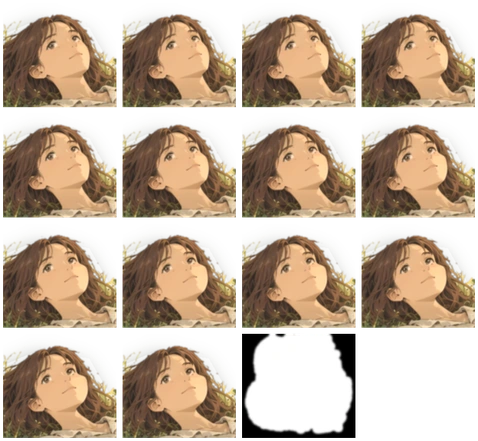
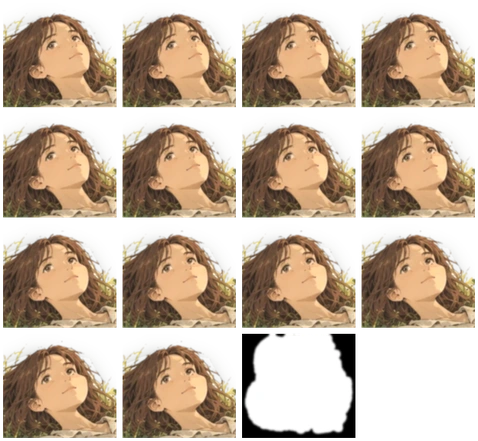
Her turn: the wide turns the sheet's own painting; sharper eyes; QA fixes
QA and the creative director on the built turn:

- The wide's drawings are the sheet's own painting turned by the same rig
  (her-turn.py's new 1x drawings), laid on the sheet as the change the turn
  makes: where she doesn't move, the wide is the sheet exactly. Before, the
  upscale was laid in, and on upright phones a strand of her hair changed
  with her eyes. two-shot.py now refuses a wide where her eyes drawing
  changes anything but her eyes (3/255).
- Her eyes are moved with the rig's Lanczos resampling, not bilinear: her
  near eye kept 70% of its edge energy, now 90%.
- Screen reader: "Her eyes go to him, then her head, a little." (her eyes
  go first); his look is told only in the close shot, the one place it can
  be seen.
- The playtest's leak check runs through her turn; its screenshots wait as
  long as the recorder's. compose.ts loses a case no track has used since
  473ddd6.

Claude-Session: https://claude.ai/code/session_01KQPjgRSBPiZRUxNQL4z1Q2

diff --git a/src/memory/defs.ts b/src/memory/defs.ts
@@ -616,15 +616,16 @@ export const WOODLAND: MemoryDef = {
     ? 'A painting forms in the wall by the words: a clearing in a wood at dusk, a fallen log, a tree, the grass. Nobody is there.'
     : 'A pencil drawing forms in the wall by the words: a clearing in a wood, two young people lying in the grass.',
   // (Short, at least 3.5 s apart; only what is seen, in order, never what it means: interaction,
-  // QA and creative reviews. The close shot's own line only while it is shown; what they do is
+  // QA and creative reviews. The close shot's own line only while it is shown; what she does is
   // told to anyone inside, whichever shot shows it: upright screens and a turned visitor see it in
-  // the wide.)
+  // the wide. His look can be seen only close (in the wide it is too small), so it is told only
+  // there: the creative director, 2026-10-19.)
   announce: (v) => v === 'empty' ? [] : [
     { at: 10.5, text: 'It opens until it is all there is: a summer afternoon, cicadas in the trees.', inside: true },
     { at: 10.5, text: 'The painting comes alive on the wall: a summer afternoon, cicadas in the trees.', wall: true },
     { at: TWO_SHOT.from, text: 'Closer: the two of them side by side in the grass, looking up.', shot: 1 },
-    { at: TWO_SHOT.herTurn + 0.5, text: 'She turns her head a little toward him.', inside: true },
-    { at: TWO_SHOT.hisEyes + 1.5, text: 'He turns his eyes to her.', inside: true },
+    { at: TWO_SHOT.herTurn + 0.5, text: 'Her eyes go to him, then her head, a little.', inside: true },
+    { at: TWO_SHOT.hisEyes + 1.5, text: 'He turns his eyes to her.', shot: 1 },
     { at: CUT, text: 'The same clearing, at dusk. Nobody is there.' },
     { at: WOODLAND_SECTIONS.exit, text: 'The painting goes back into the wall.' },
   ],

diff --git a/tests/living-memory.test.ts b/tests/living-memory.test.ts
@@ -559,10 +559,12 @@ describe('the two of them close: one shot, three beats, held drawings', () => {
 
   it('what a screen reader is told of it: only what is seen, in order, at least 3.5 s apart', () => {
     const lines = def.announce!('afternoon').filter((l) => l.at >= SHOTS.two && l.at < SHOTS.wideAgain);
-    expect(lines.map((l) => l.text)).toEqual(['Closer: the two of them side by side in the grass, looking up.', 'She turns her head a little toward him.', 'He turns his eyes to her.']);
+    expect(lines.map((l) => l.text)).toEqual(['Closer: the two of them side by side in the grass, looking up.', 'Her eyes go to him, then her head, a little.', 'He turns his eyes to her.']);
     for (let i = 1; i < lines.length; i++) expect(lines[i].at - lines[i - 1].at).toBeGreaterThanOrEqual(3.5);
-    // What they do is told to anyone inside, in whichever shot it is seen.
-    expect(lines.slice(1).every((l) => l.inside && l.shot === undefined)).toBe(true);
+    // What she does is told to anyone inside, in whichever shot it is seen; his look only close,
+    // the one shot it can be seen in (in the wide, and so on an upright screen, it is too small).
+    expect(lines[1].inside && lines[1].shot === undefined).toBe(true);
+    expect(lines[2].shot).toBe(1);
   });
 });
 

diff --git a/src/memory/compose.ts b/src/memory/compose.ts
@@ -85,10 +85,6 @@ export function compose(base: Values, env: Values, w: Weights, living = false): 
         // go early, it cuts straight back to the wide (the way out is the wide's).
         out[k] = exitRaw < 0.999 ? 0 : Math.round(v);
         break;
-      case 'cel':
-        // Which drawing of her head (held keys): a whole one, never between.
-        out[k] = Math.round(v);
-        break;
       case 'skew':
         // A hanging thing's sway (the curtain): it is motion, so none under reduced motion.
         out[k] = (v + env1(env, `sway:${obj.replace(/^layer:/, '')}.skew`, 0)) * w.motion;

diff --git a/scripts/her-turn.py b/scripts/her-turn.py
@@ -41,10 +41,11 @@ from one drawing, honestly, as a rotation:
   rigid, and the rest of her lines keep their weight (`STRAIN`).
 
 One drawing of her eyes on him (`TURN_EYES`, src/memory/defs.ts), one for each of the timeline's
-steps (`TURN_STEPS`) and the last, each the 2x crop round her head (lossless), and turn.json (where
-the crop lies, how far each drawing is):
+steps (`TURN_STEPS`) and the last: each the 2x crop round her head from the upscaled panel (the
+two-shot's), and the 1x crop from the sheet's own painting (the wide's: the change the turn makes,
+laid on the sheet), lossless; and turn.json (where the crop lies, how far each drawing is):
 
-    references/woodland/drawings/turn/b-turn-01@2x.webp ... and turn.json
+    references/woodland/drawings/turn/b-turn-01@2x.webp, b-turn-01@1x.webp ... and turn.json
 
 scripts/two-shot.py lays them into the panel and cuts them into the two-shot's and the wide's heads.
 """
@@ -581,8 +582,8 @@ class Head:
 
 
 def looking(img, eye, gaze):
-    """`img` (the crop) with one eye looking by `gaze`, as the two-shot shader's `looking()` draws it
-    (src/world/living/materials.ts): inside the opening the iris moves along it and the white fills
+    """`img` (the crop, 2x) with one eye looking by `gaze`, as the two-shot shader's `looking()` draws
+    it (src/world/living/materials.ts): inside the opening the iris moves along it and the white fills
     in where it was. `eye`: the manifest's eleven numbers (opening, iris, white; sheet px, y up)."""
     sheet_y = float(ts.PH)
     ex, ey, rx, ry, ang, ix, iy, ir, wr, wg, wb = eye
@@ -603,7 +604,8 @@ def looking(img, eye, gaze):
     base = img * (1 - was) + fill * was
     mx = ((src[..., 0] - CX / 2) * 2 - 0.5).astype(np.float32)
     my = ((sheet_y - src[..., 1]) * 2 - 0.5).astype(np.float32)
-    moved = cv2.remap(img.astype(np.float32), mx, my, cv2.INTER_LINEAR, borderMode=cv2.BORDER_REFLECT)
+    # (Resampled as the turn is: bilinear, as the shader samples, softened her iris by a third.)
+    moved = resample(img.astype(np.float32), mx, my)
     out = base * (1 - iris[..., None]) + moved * iris[..., None]
     return img * (1 - m[..., None]) + out * m[..., None]
 
@@ -651,6 +653,15 @@ STRAIN = {'near eye': (0.0, 0.8, 1.2, 1.2), 'far eye': (0.0, 1.0, 1.35, 1.35), '
           'far outline': (0.45, 0.4, 1.8, 1.8), 'the rest': (0.05, 0.6, 1.4, 1.65), 'all': (0.06, 0.6, 1.6, 1.8)}
 
 
+def sheet_crop():
+    """The crop round her head from the sheet's own painting (1x, not the upscale): what the wide's
+    people are cut from (scripts/cut-woodland.py)."""
+    img = Image.open(os.path.join(cut.REF, '02-characters.webp')).convert('RGB')
+    if img.size != (1448, 1086):
+        img = img.resize((1448, 1086), Image.LANCZOS)
+    return cut.arr(img)[0:N // 2, CX // 2:(CX + N) // 2].astype(np.float64)
+
+
 def steps():
     """How far she has turned at each drawing: her eyes on him before her head moves (`TURN_EYES`),
     the timeline's `TURN_STEPS`, then all the way."""
@@ -682,19 +693,33 @@ def main():
         s_max, lo_min, hi_max, most_max = STRAIN[k]
         assert share <= s_max + 1e-9 and lo >= lo_min and hi <= hi_max and most <= most_max, \
             f'the turn squeezes or stretches her {k}: {share * 100:.1f}% outside, area {lo:.2f}-{hi:.2f}, stretch {most:.2f}'
+    # The wide is cut from the sheet's own painting, not the upscale: the same turn of it (rendered
+    # at 2x from it, brought down), laid on it only as the change the turn makes, so wherever she
+    # doesn't move the wide stays the sheet exactly (laying in the upscale changed her hair's outline
+    # there: QA, 2026-10-19).
+    one = sheet_crop()
+    one2 = np.clip(cv2.resize(one, (N, N), interpolation=cv2.INTER_LANCZOS4), 0, 1)
+    head1 = Head(one2)
+    still1, _ = head1.render(0.0, one2)
+    assert np.percentile(np.abs(still1 - one2).max(-1), 99.9) <= 2 / 255 + 1e-6, 'not turned, the rig should be the sheet'
+    down = lambda a: cv2.resize(a.astype(np.float32), (N // 2, N // 2), interpolation=cv2.INTER_AREA).astype(np.float64)
+    base1 = down(still1)
     os.makedirs(OUT, exist_ok=True)
     for old in os.listdir(OUT):
         if old.startswith('b-turn-'):
             os.remove(os.path.join(OUT, old))
+    save = lambda a, name: Image.fromarray((np.clip(a, 0, 1) * 255 + 0.5).astype(np.uint8)).save(os.path.join(OUT, name), 'WEBP', lossless=True, method=6)
     fractions, worst = {}, 0.0
     for i, s in enumerate(steps(), 1):
-        img = panel.copy()
+        name, psi, g = f'b-turn-{i:02d}', math.radians(-ANGLE * s), gaze * (1 - (1 - KEEP) * s)
+        img, img1 = panel.copy(), one2.copy()
         for e in eyes:
-            img = looking(img, e, gaze * (1 - (1 - KEEP) * s))
-        out, err = head.render(math.radians(-ANGLE * s), img)
-        worst = max(worst, err)
-        name = f'b-turn-{i:02d}'
-        Image.fromarray((out * 255 + 0.5).astype(np.uint8)).save(os.path.join(OUT, f'{name}@2x.webp'), 'WEBP', lossless=True, method=6)
+            img, img1 = looking(img, e, g), looking(img1, e, g)
+        out, err = head.render(psi, img)
+        out1, err1 = head1.render(psi, img1)
+        worst = max(worst, err, err1)
+        save(out, f'{name}@2x.webp')
+        save(one + down(out1) - base1, f'{name}@1x.webp')
         fractions[name] = round(s, 4)
     with open(os.path.join(OUT, 'turn.json'), 'w') as fh:
         json.dump({'crop': [CX, 0, N, N], 'scale': 2, 'angle': ANGLE, 'tilt': TILT, 'keep': KEEP, 'drawings': fractions}, fh, indent=2)

diff --git a/scripts/two-shot.py b/scripts/two-shot.py
@@ -351,13 +351,14 @@ def ground(day):
 
 
 def turn_drawings():
-    """Her turn's drawings: (name, how far, the 2x crop) in order, and the crop's place (2x px:
-    x, y, w, h)."""
+    """Her turn's drawings: (name, how far, the 2x crop, the 1x crop from the sheet's own painting)
+    in order, and the crop's place (2x px: x, y, w, h)."""
     spec = json.load(open(os.path.join(TURN, 'turn.json')))
     assert spec['scale'] == 2
     out = []
     for name, f in sorted(spec['drawings'].items(), key=lambda kv: kv[1]):
-        out.append((name, f, cut.arr(Image.open(os.path.join(TURN, f'{name}@2x.webp')).convert('RGB'))))
+        rgb = lambda size: cut.arr(Image.open(os.path.join(TURN, f'{name}@{size}.webp')).convert('RGB'))
+        out.append((name, f, rgb('2x'), rgb('1x')))
     return out, spec['crop']
 
 
@@ -425,7 +426,7 @@ def main():
     drawings, (cx, cy, cw, ch) = turn_drawings()
     assert k == 2, 'her turn is drawn at twice the sheet\'s size: needs references/woodland/upscaled/'
     tops = []
-    for _, _, crop in drawings:
+    for _, _, crop, _ in drawings:
         t2 = top.copy()
         t2[cy:cy + ch, cx:cx + cw] = crop
         tops.append(t2)
@@ -440,25 +441,35 @@ def main():
     cels = [dressed(t2, k, day, d, sigma, light)[0][box_k] for t2 in tops]
     atlas, cells_grid = grid(cels + [np.dstack([rk, rk, rk, np.ones_like(rk)])])
     cut.save(atlas, os.path.join(a_dir, 'near-heads.webp'), sizes, q=94)
-    at = [f for _, f, _ in drawings]
-    names = [n for n, _, _ in drawings]
+    at = [f for _, f, _, _ in drawings]
+    names = [n for n, _, _, _ in drawings]
 
     # The same at the wide's size: the cutter's own people from the sheet with each drawing laid
-    # in (by the region at the sheet's size: the sheet stays the sheet wherever she didn't move).
+    # in, the sheet's own painting turned (her-turn.py's 1x drawings: the sheet itself wherever she
+    # didn't move), by the region at the sheet's size.
     t = cut.FIG_T
     sheet_full = cut.arr(Image.open(os.path.join(cut.REF, '02-characters.webp')).convert('RGB'))
     if sheet_full.shape[:2] != (1086, 1448):
         sheet_full = cut.arr(Image.open(os.path.join(cut.REF, '02-characters.webp')).convert('RGB').resize((1448, 1086), Image.LANCZOS))
     lay = region1[cy // 2:(cy + ch) // 2, cx // 2:(cx + cw) // 2][..., None]
+    plain, _, _, _, _ = cut.figures(cut.img(sheet_full), cut.load('04-day.webp'))
+    th, tw = plain.shape[:2]
+    box_t = (slice(round(by * t), round((by + bh) * t)), slice(round(bx * t), round((bx + bw) * t)))
     wides = []
-    for _, _, crop in drawings:
+    for _, _, _, small in drawings:
         full1 = sheet_full.copy()
-        small = cv2.resize(crop, (cw // 2, ch // 2), interpolation=cv2.INTER_AREA)
         full1[cy // 2:(cy + ch) // 2, cx // 2:(cx + cw) // 2] = small * lay + full1[cy // 2:(cy + ch) // 2, cx // 2:(cx + cw) // 2] * (1 - lay)
         wide, _, _, _, _ = cut.figures(cut.img(full1), cut.load('04-day.webp'))
-        th, tw = wide.shape[:2]
-        box_t = (slice(round(by * t), round((by + bh) * t)), slice(round(bx * t), round((bx + bw) * t)))
         wides.append(wide[box_t])
+    # (Her eyes on him change nothing of her but her eyes: her hair's outline and its colour stay
+    # the wide's own, as the two-shot's do.)
+    yy, xx = np.mgrid[0:wides[0].shape[0], 0:wides[0].shape[1]]
+    eyes_out = np.ones(wides[0].shape[:2], bool)
+    for (ex, ey, rx, ry, _), _ in EYES_B:
+        eyes_out &= np.hypot(xx - (ex * t - box_t[1].start), yy - (ey * t - box_t[0].start)) > 1.6 * max(rx, ry) * t + 2
+    off = np.abs(wides[0] - plain[box_t])[eyes_out].max(-1)
+    assert np.percentile(off, 99.9) <= 3 / 255 + 1e-6 and off.max() <= 12 / 255, \
+        f'her eyes on him change her elsewhere in the wide: p99.9 {np.percentile(off, 99.9) * 255:.1f}/255, max {off.max() * 255:.0f}/255'
     reg_t = cv2.resize(region1, (tw, th), interpolation=cv2.INTER_AREA)
     rt = reg_t[box_t]
     wide_atlas, wide_grid = grid(wides + [np.dstack([rt, rt, rt, np.ones_like(rt)])])
